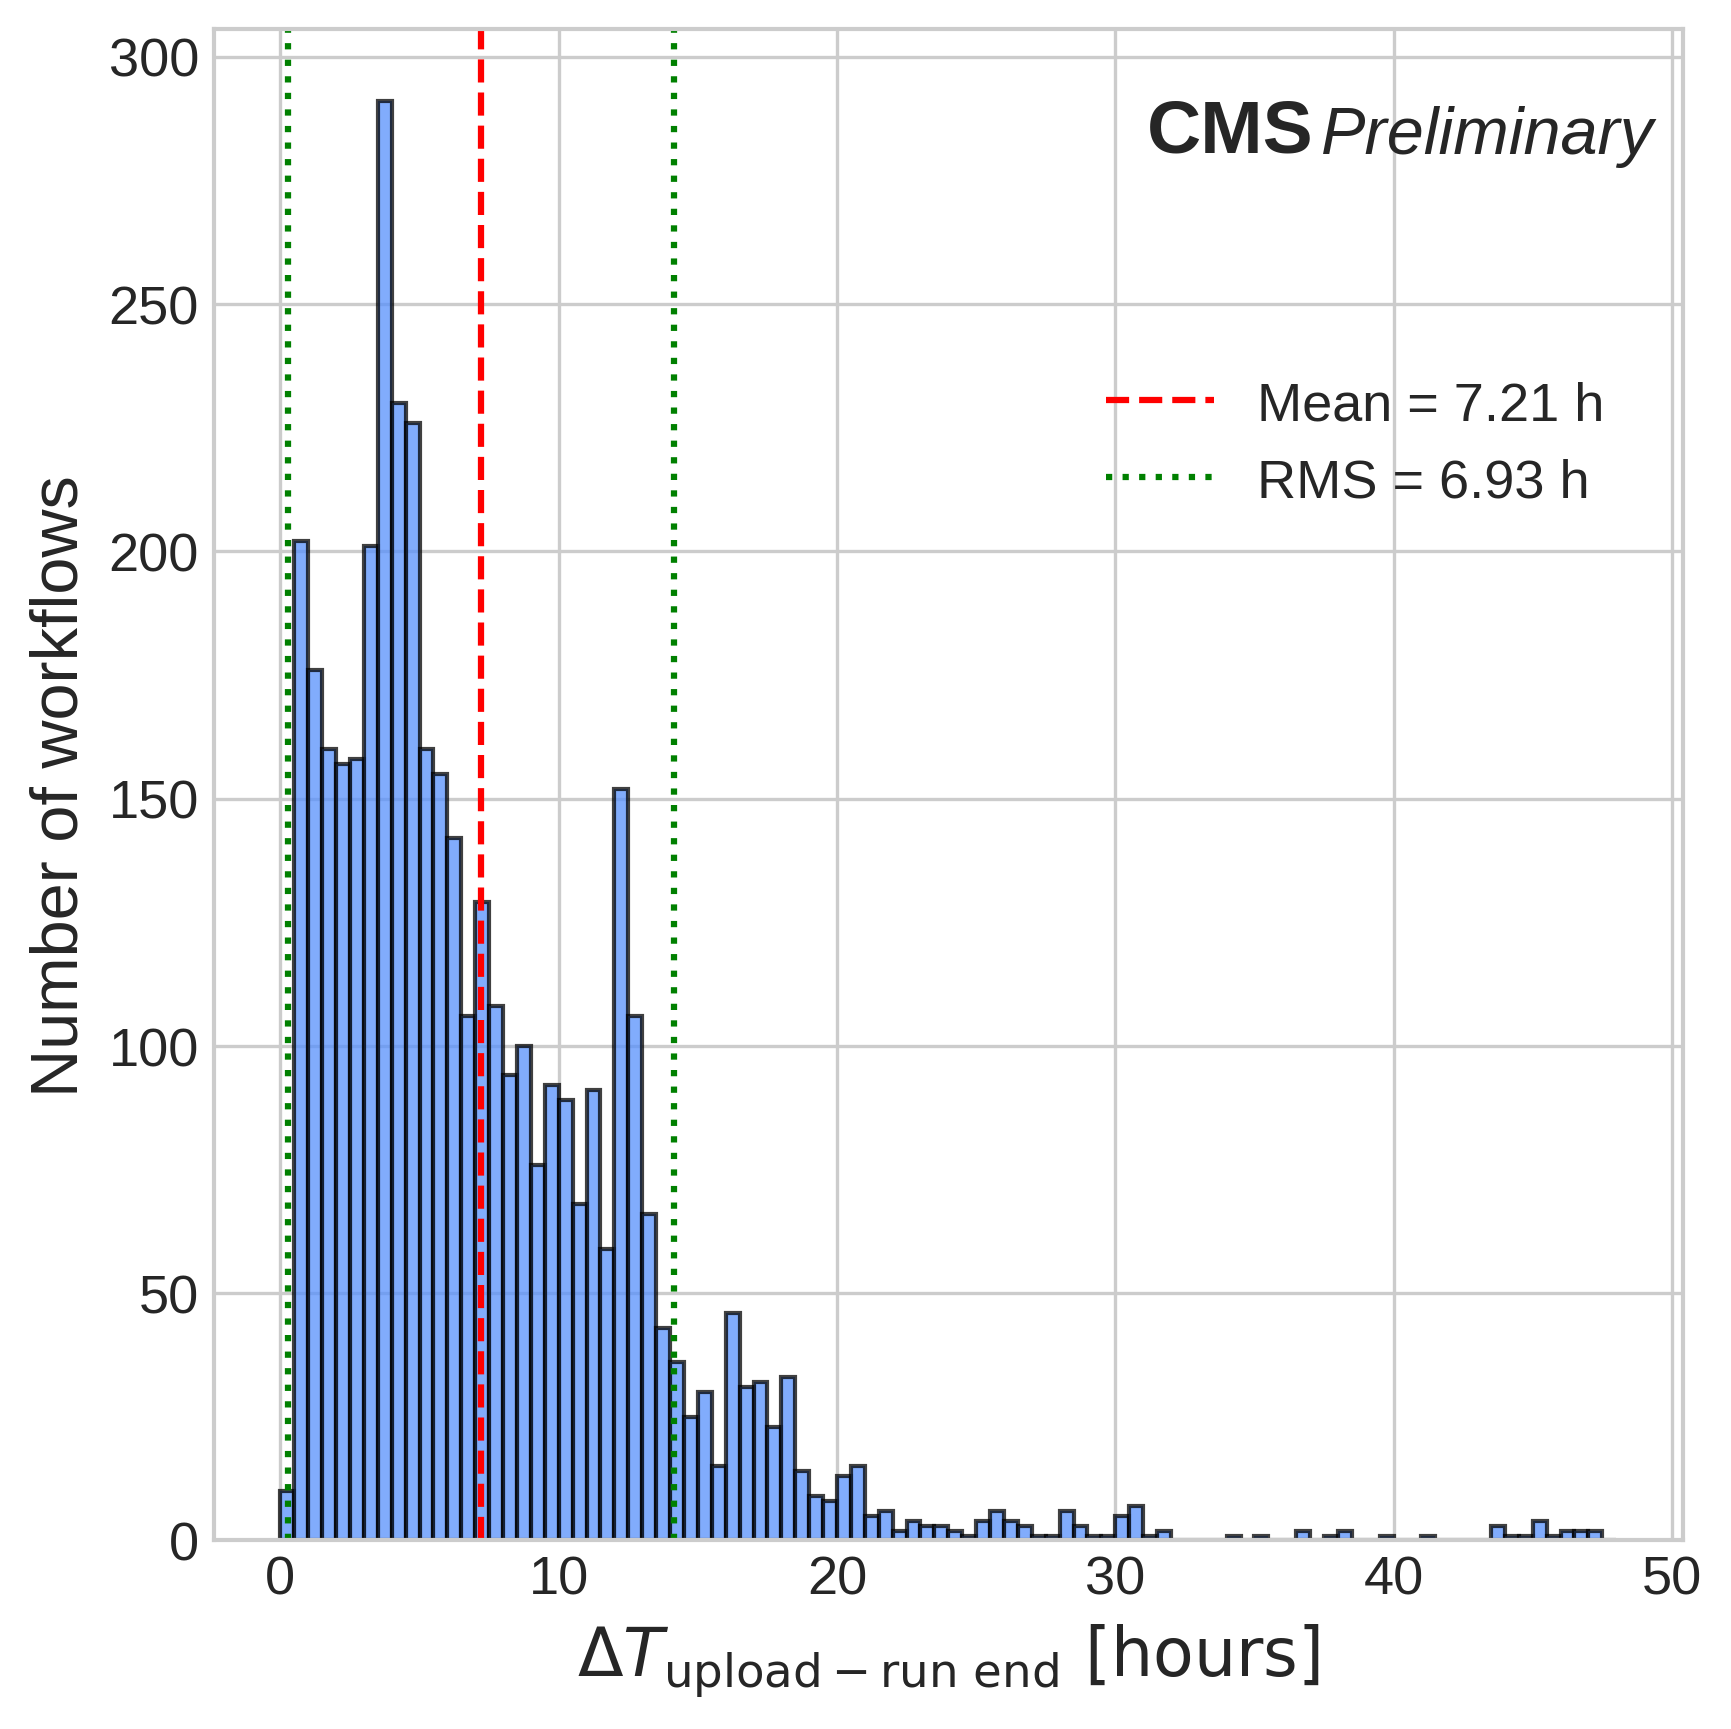
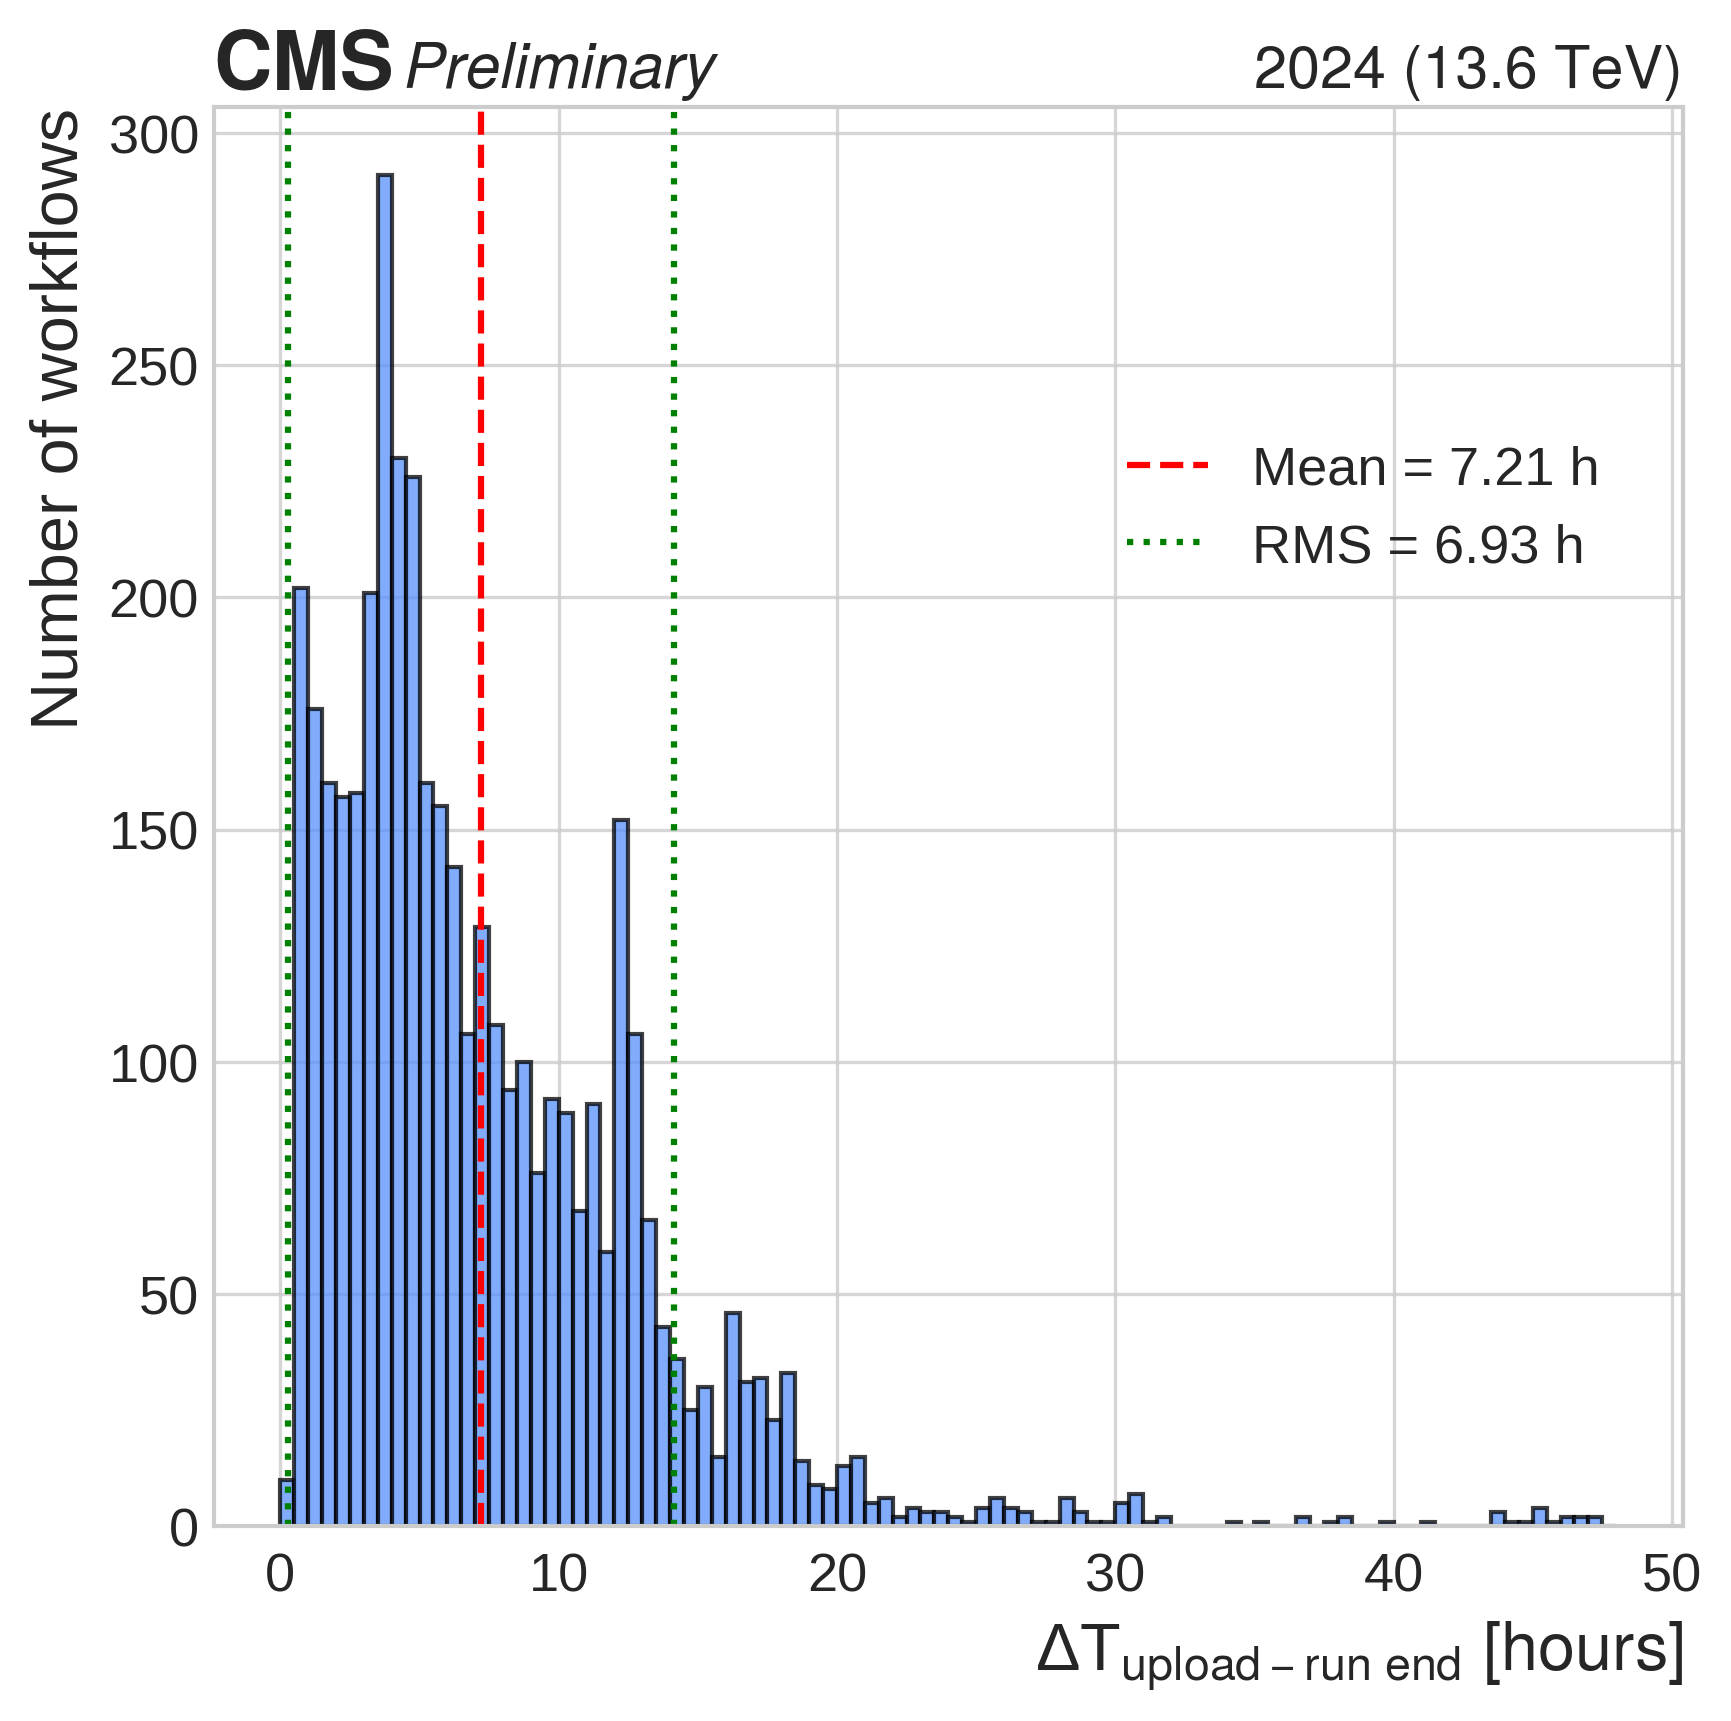
update PCL timing plots

diff --git a/ApprovedPlots/PCLTiming/aggregates_for_approval.py b/ApprovedPlots/PCLTiming/aggregates_for_approval.py
@@ -5,6 +5,9 @@ import os
 import numpy as np
 from datetime import datetime
 
+import mplhep as hep
+hep.style.use("CMS")
+
 # Database path
 db_path = "MergedPCLStats_2024.db"
 
@@ -113,20 +116,25 @@ for time_diff_col, bins in time_diff_configs:
     ax.axvline(mean_diff - rms_diff, color="green", linestyle="dotted", linewidth=1.5)
     
     # CMS label (upper left)
-    ax.text(
-        0.635, 0.955, "CMS",
-        transform=ax.transAxes,
-        fontsize=18, fontweight="bold",
-        va="top", ha="left"
-    )
+    # ax.text(
+    #     0.635, 0.955, "CMS",
+    #     transform=ax.transAxes,
+    #     fontsize=18, fontweight="bold",
+    #     va="top", ha="left"
+    # )
     
-    # "Preliminary" label (upper right)
-    ax.text(
-        0.98, 0.95, "Preliminary",
-        transform=ax.transAxes,
-        fontsize=16, style="italic",
-        va="top", ha="right"
-    )
+    # # "Preliminary" label (upper right)
+    # ax.text(
+    #     0.98, 0.95, "Preliminary",
+    #     transform=ax.transAxes,
+    #     fontsize=16, style="italic",
+    #     va="top", ha="right"
+    # )
+
+    fontsize=15
+    label = "2024"
+    hep.cms.text('Preliminary', ax=ax, fontsize=fontsize)
+    hep.cms.lumitext(label + " (13.6 TeV)", ax=ax, fontsize=fontsize)
     
     # Legend on the right, below "Preliminary"
     ax.legend(
